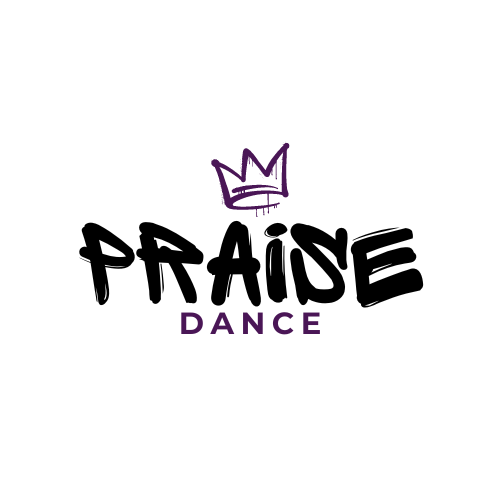
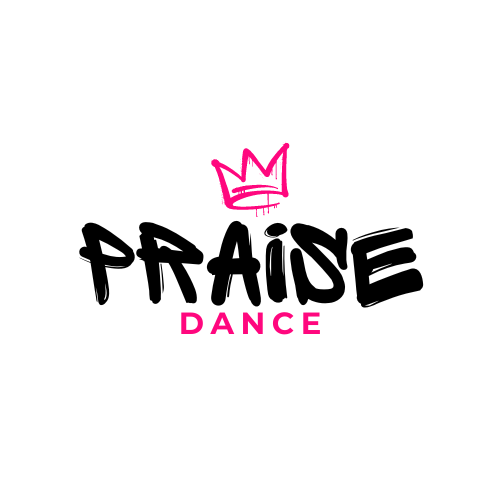
atualização das cores do site

Changed region(s): [[0.42, 0.27, 0.6, 0.42], [0.36, 0.6, 0.66, 0.69]]

diff --git a/style.css b/style.css
@@ -236,8 +236,9 @@ img {
 /* SOBRE NÓS */
 
 #sobreDanca {
-  background-color: #0E1327;
+  background-color: #0C163B;
   padding: 50px 0;
+  color: #fff;
 }
 
 .titulo-sobreDanca {
@@ -322,7 +323,7 @@ img {
   color: #ffffff;
 }
 
-#sobreDanca .container input[type="text"],
+/* #sobreDanca .container input[type="text"],
 #sobreDanca .container input[type="email"],
 #sobreDanca .container textarea {
   width: 100%;
@@ -330,9 +331,9 @@ img {
   border: 1px solid #ccc;
   border-radius: 5px;
   max-width: 100%;
-}
+} */
 
-#sobreDanca .container button[type="submit"] {
+/* #sobreDanca .container button[type="submit"] {
   background-color: #007bff;
   color: #fff;
   border: none;
@@ -340,17 +341,17 @@ img {
   border-radius: 5px;
   cursor: pointer;
   transition: background-color 0.3s;
-}
+} */
 
-#sobreDanca .container button[type="submit"]:hover {
+/* #sobreDanca .container button[type="submit"]:hover {
   background-color: #4A1656;
-}
+} */
 
 /* FOOTER */
 
 .footer {
   height: 120px;
-  background-color: #4A1656;
+  background-color: #FF077E;
   color: #fff;
   display: flex;
   align-items: center;
